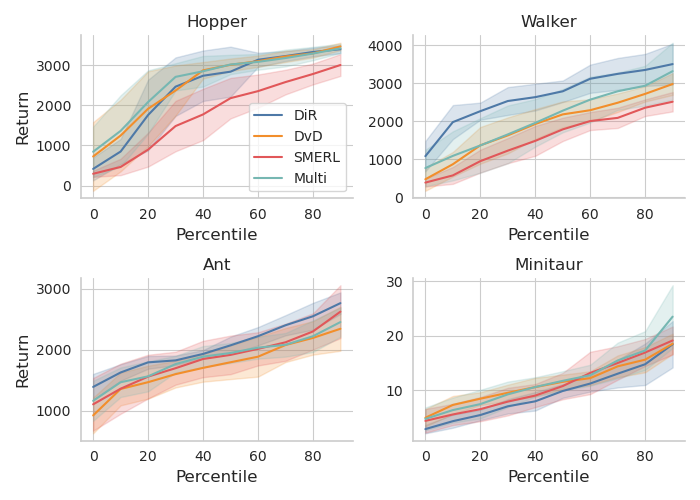
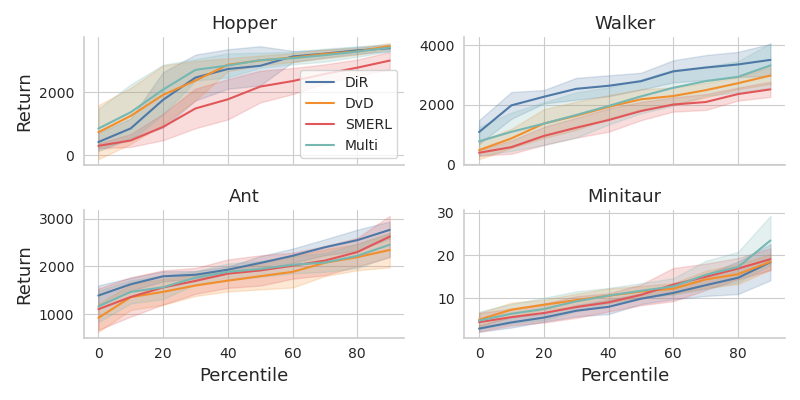
add new igg

diff --git a/script_plot/compare_ret_quantile_dist.py b/script_plot/compare_ret_quantile_dist.py
@@ -45,7 +45,7 @@ def plot_ret_quantile() -> None:
             csv_path = f'/home/xukang/Project/state_filtration_for_qd/statistic/{all_alg_csv[alg]}/{env}_return_dist.csv'
         return csv_path
 
-    fig, axs = plt.subplots(nrows=2,ncols=2,tight_layout=True,figsize=(7, 5), sharex=False)
+    fig, axs = plt.subplots(nrows=2,ncols=2,tight_layout=True,figsize=(8, 4), sharex=True)
     
     for i, ax in enumerate(axs.flat):
         # plot mean ret dist
@@ -90,12 +90,12 @@ def plot_ret_quantile() -> None:
         else:
             ax.legend().remove()
     
-        ax.set_xlabel('Percentile', fontsize=12)
+        ax.set_xlabel('Percentile', fontsize=13)
         if i == 1 or i == 3:
-            ax.set_ylabel('', fontsize=12)
+            ax.set_ylabel('', fontsize=13)
         else:
-            ax.set_ylabel('Return', fontsize=12)
-        ax.set_title(f'{env}', fontsize=12)
+            ax.set_ylabel('Return', fontsize=13)
+        ax.set_title(f'{env}', fontsize=13)
         
         for _, s in ax.spines.items():
             s.set_linewidth(1.2)
